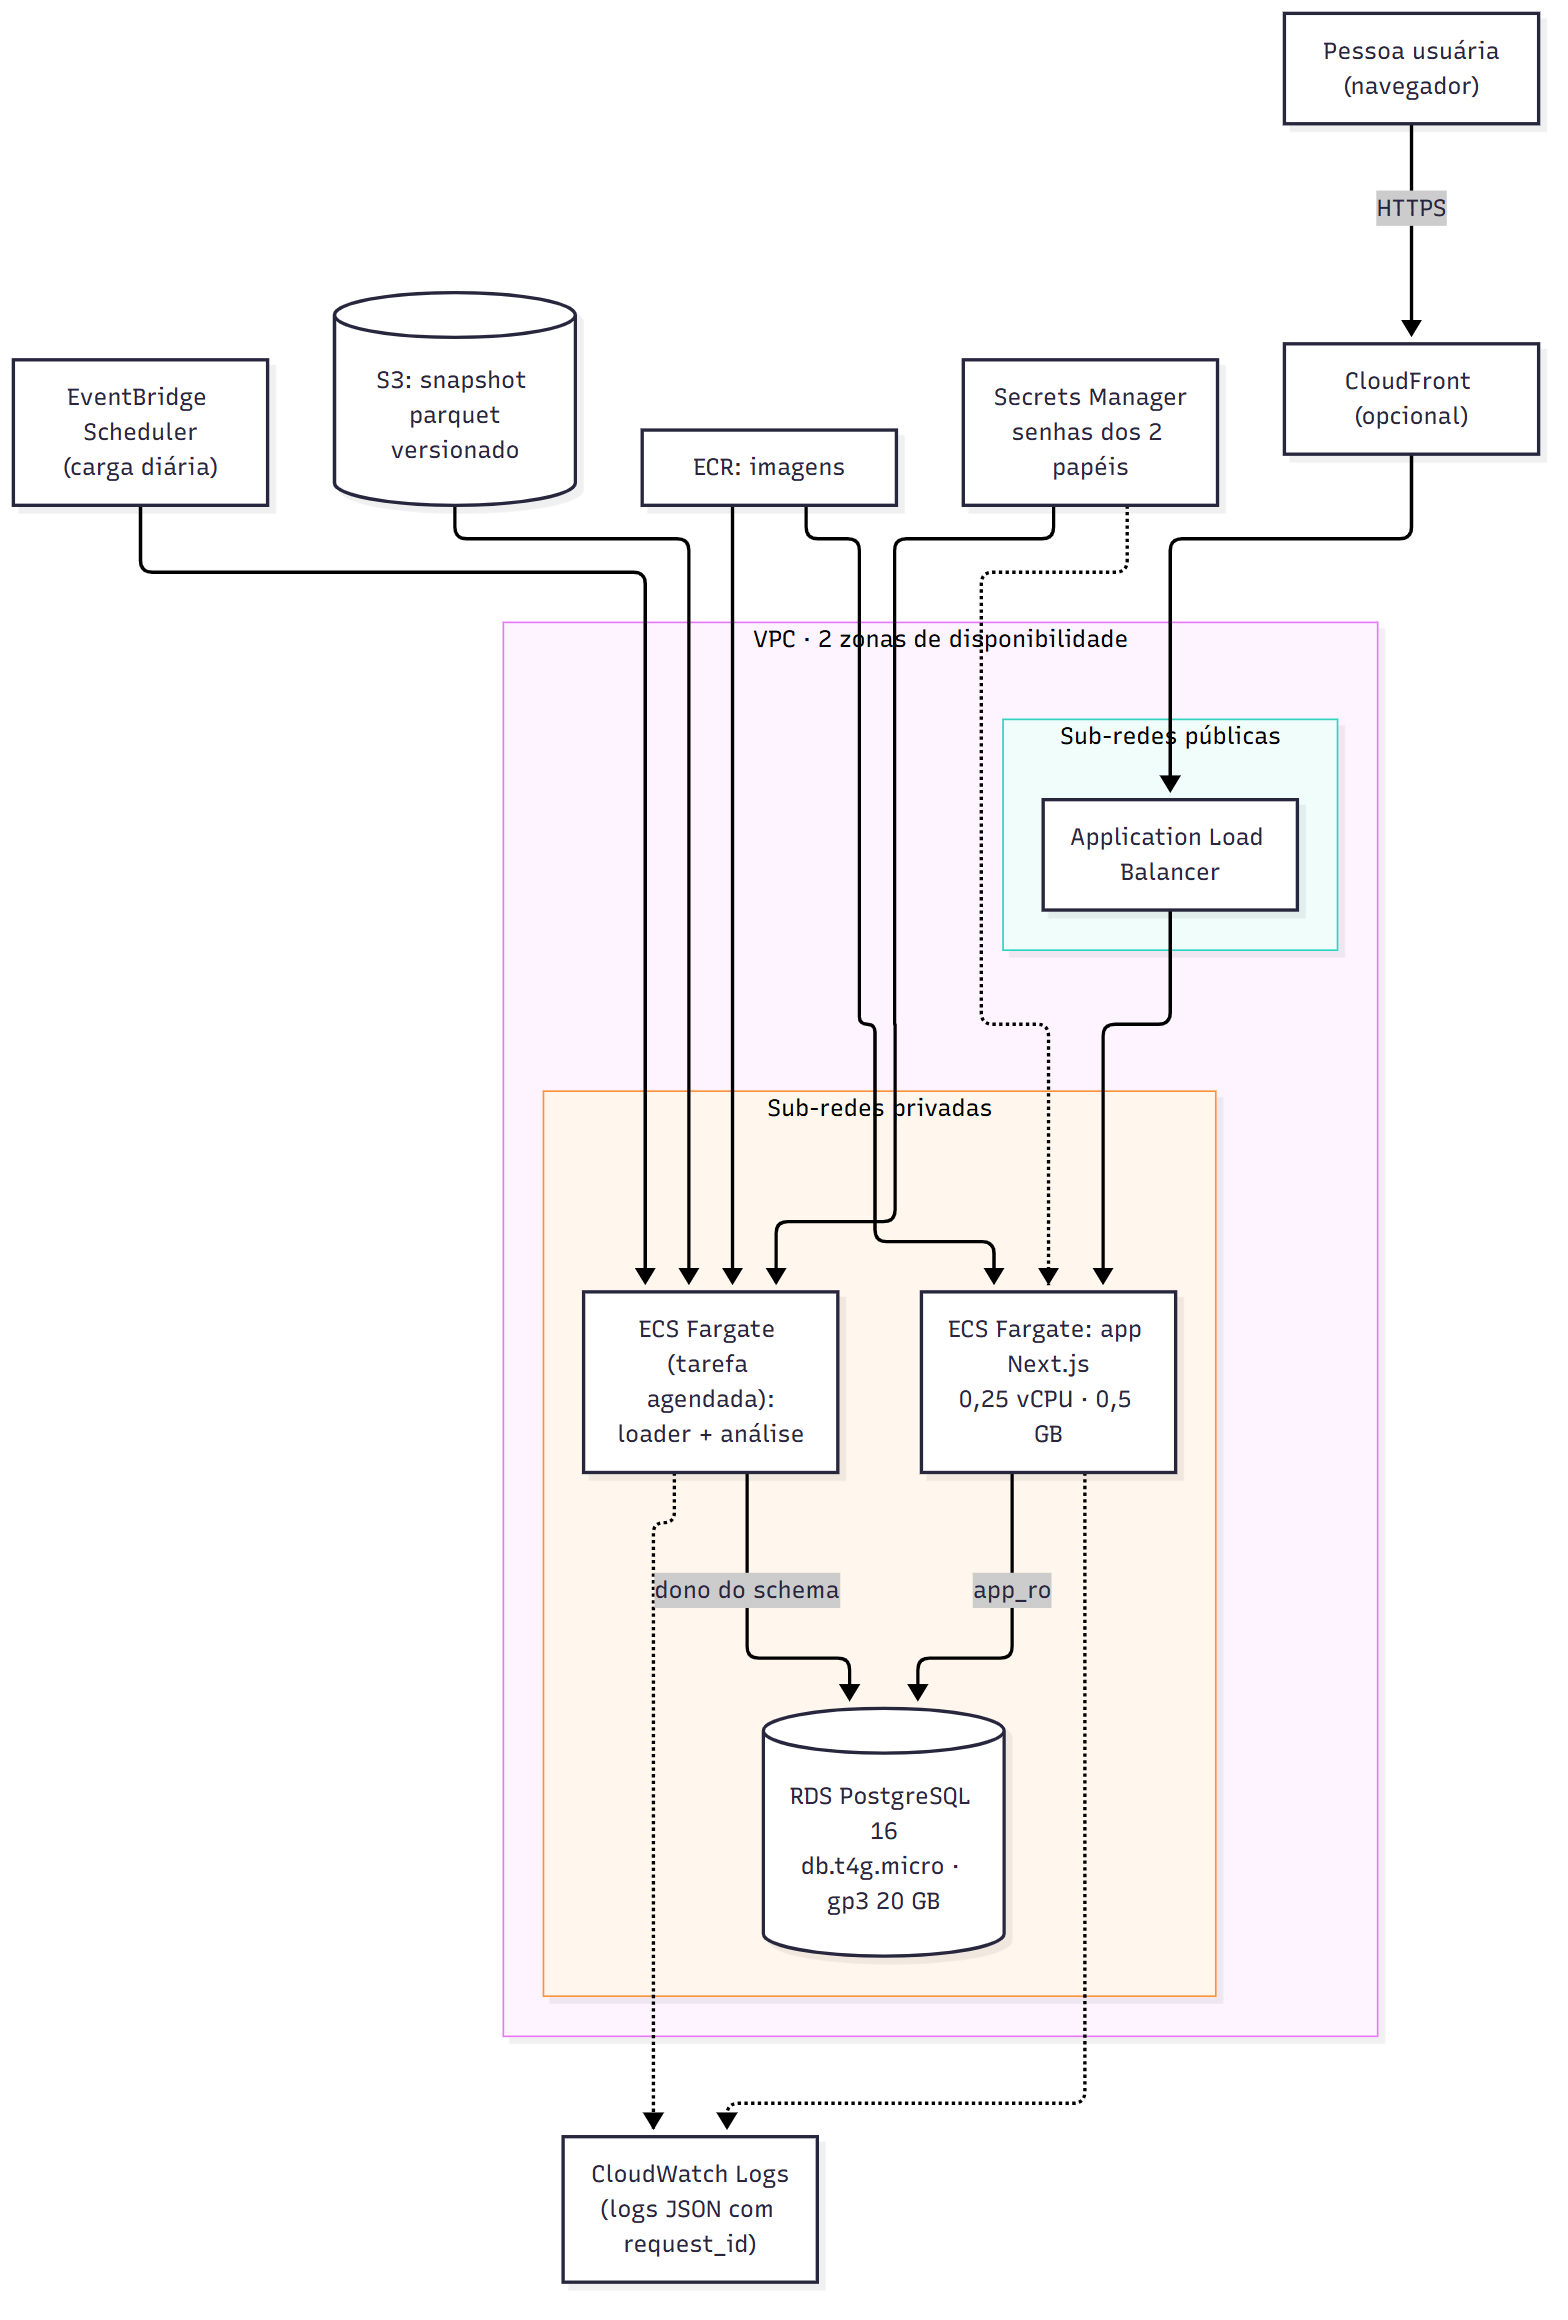
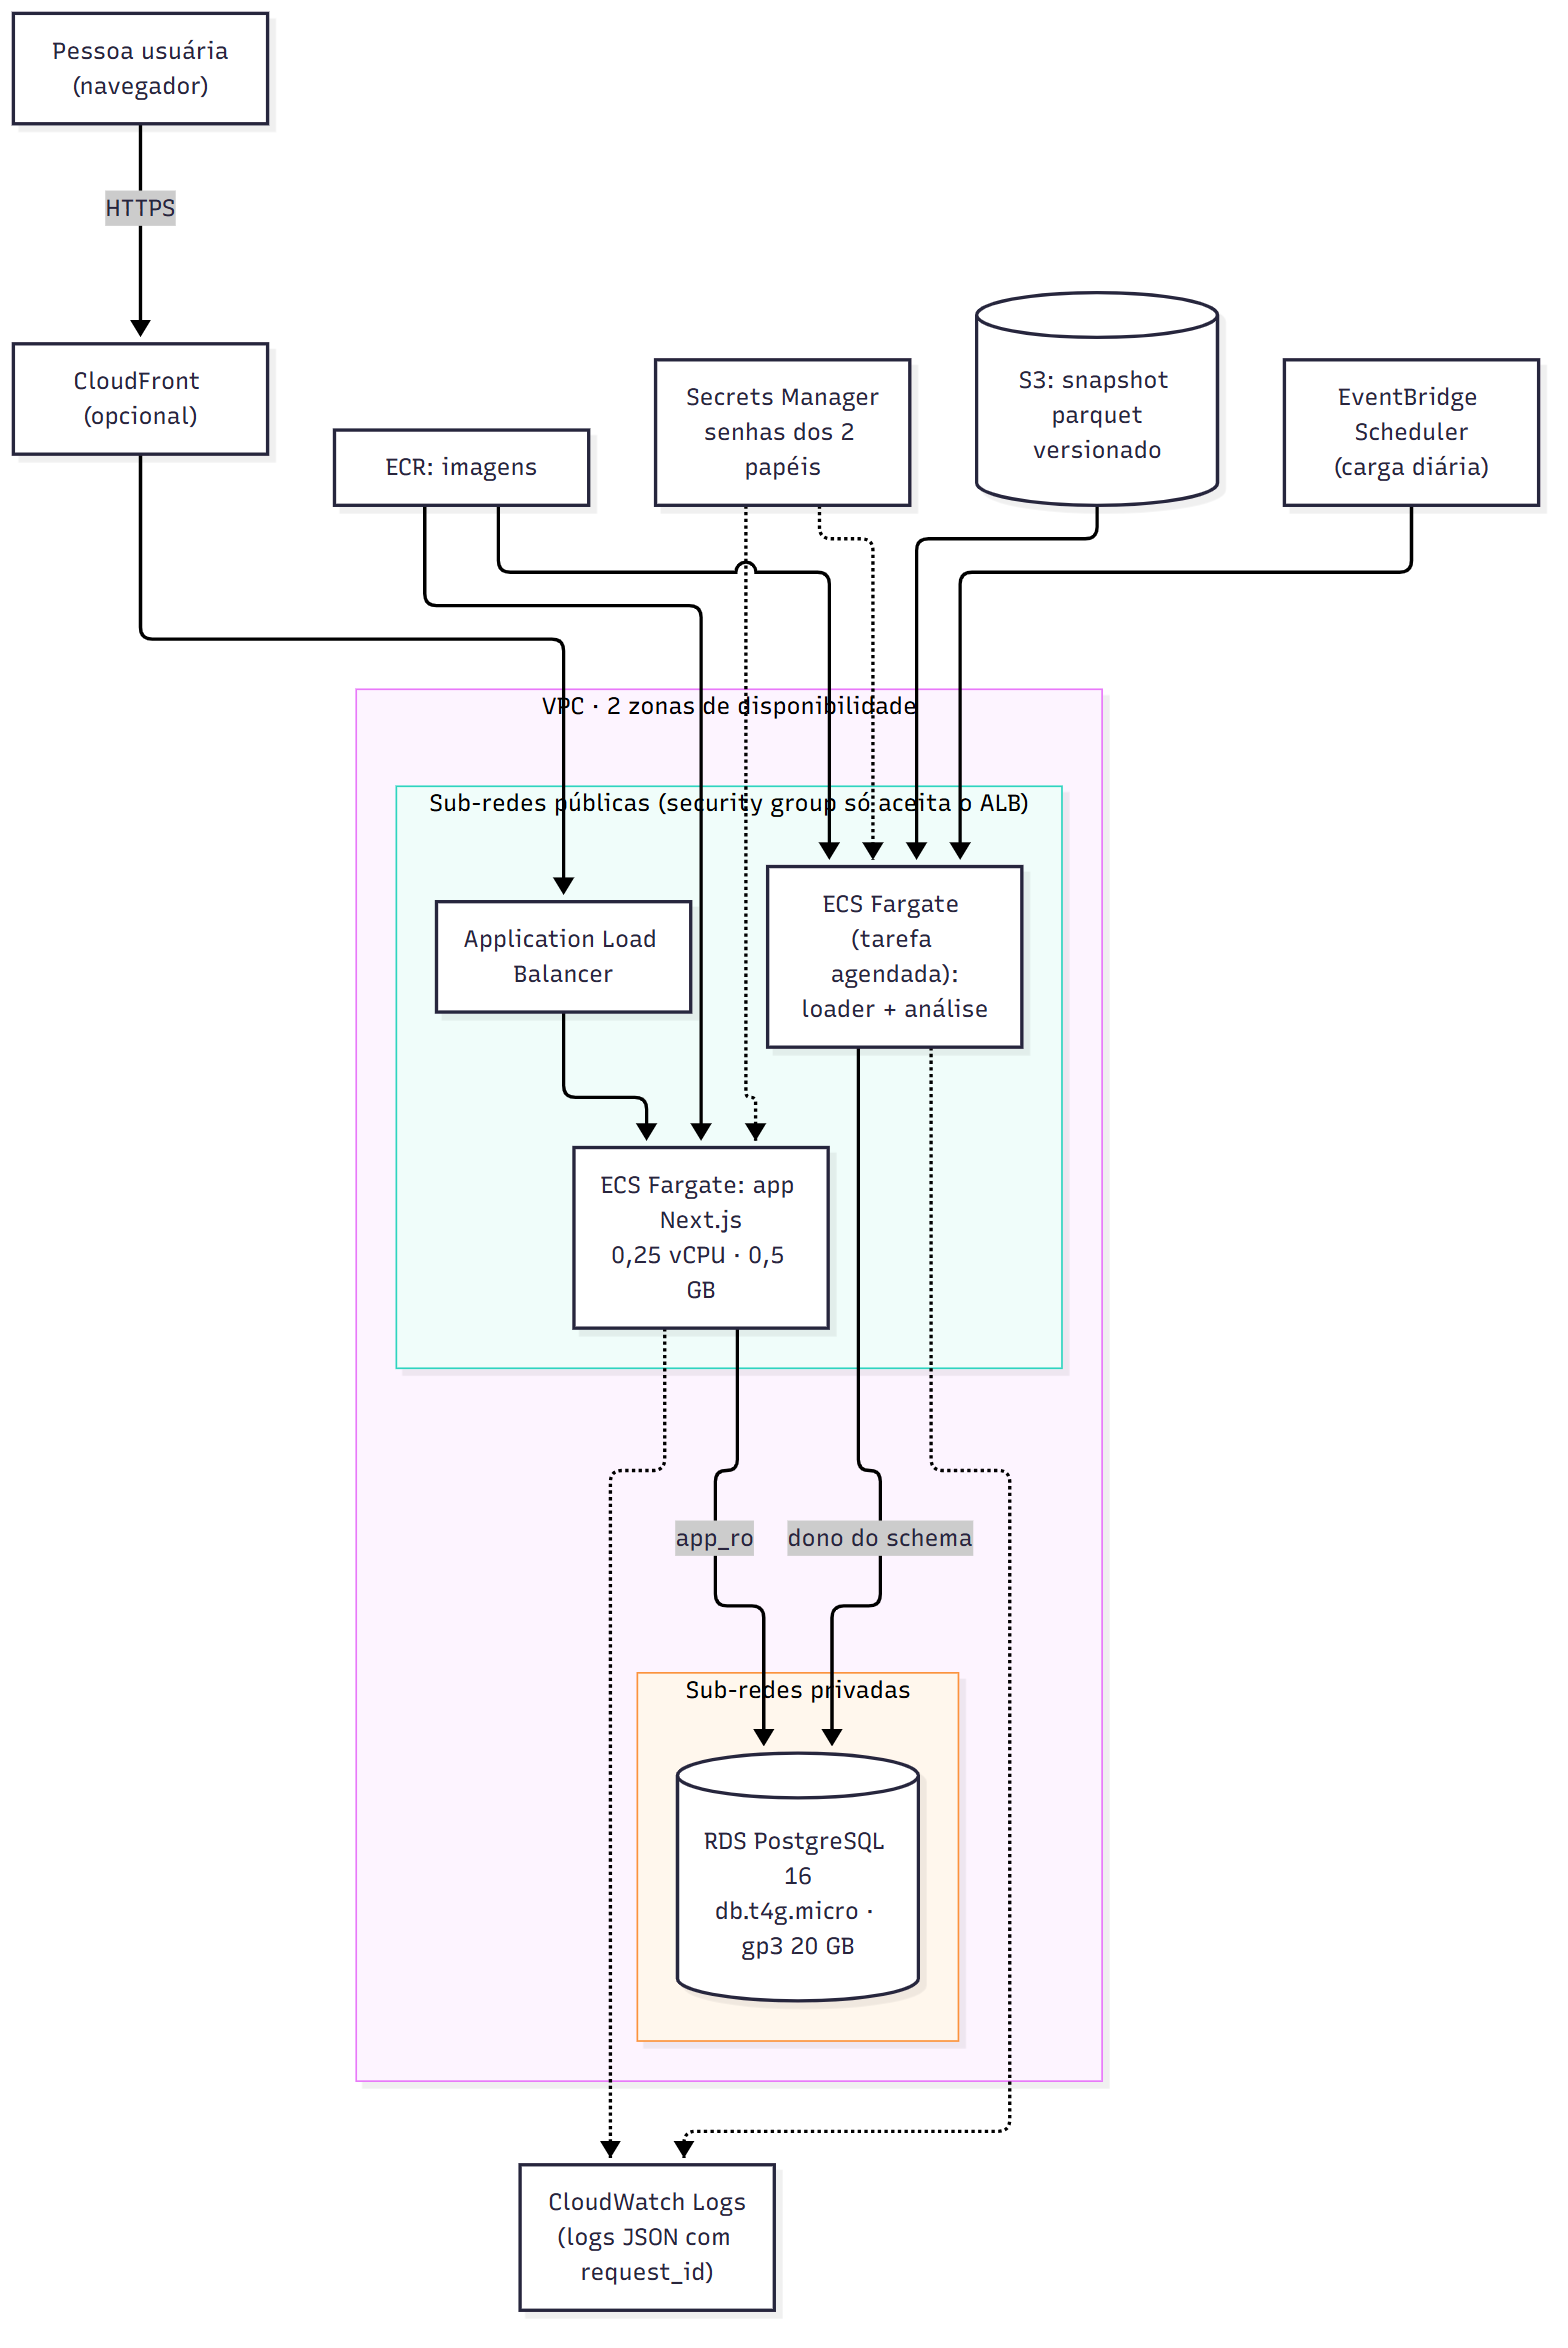
docs(m6): saída para a internet precificada (AmazonVPC); LCU coerente [T-602]

Changed region(s): [[0.2188, 0.0, 0.9688, 0.9931], [0.0, 0.0, 0.1562, 0.2172]]

diff --git a/docs/arquitetura/arquitetura.md b/docs/arquitetura/arquitetura.md
@@ -29,12 +29,12 @@ flowchart TB
   U["Pessoa usuária<br/>(navegador)"] -->|HTTPS| CF["CloudFront (opcional)"]
   CF --> ALB["Application Load Balancer"]
   subgraph VPC["VPC · 2 zonas de disponibilidade"]
-    subgraph PUB["Sub-redes públicas"]
+    subgraph PUB["Sub-redes públicas (security group só aceita o ALB)"]
       ALB
-    end
-    subgraph PRIV["Sub-redes privadas"]
       APP["ECS Fargate: app Next.js<br/>0,25 vCPU · 0,5 GB"]
       LOAD["ECS Fargate (tarefa agendada):<br/>loader + análise"]
+    end
+    subgraph PRIV["Sub-redes privadas"]
       RDS[("RDS PostgreSQL 16<br/>db.t4g.micro · gp3 20 GB")]
     end
   end
@@ -53,11 +53,11 @@ flowchart TB
 
 Imagem: `docs/arquitetura/implantacao-aws.png`.
 
-**Deploy:** a imagem do app e a do loader são construídas a partir do mesmo repositório, publicadas no ECR e atualizadas no ECS. O loader roda como tarefa agendada (migra, carrega, transforma, reconcilia) e termina; o app sobe depois que a última carga está registrada em `ops.lote_carga`. Migrações são versionadas em `sql/migrations/` e só o loader as aplica. O app não tem credencial de escrita.
+**Deploy:** a imagem do app e a do loader são construídas a partir do mesmo repositório, publicadas no ECR e atualizadas no ECS. O loader roda como tarefa agendada (migra, carrega, transforma, reconcilia) e termina; o app sobe depois que a última carga está registrada em `ops.lote_carga`. Migrações são versionadas em `sql/migrations/` e só o loader as aplica. O app não tem credencial de escrita. As tarefas ficam em sub-rede pública (IPv4 público, para falar com ECR, Secrets Manager e CloudWatch sem NAT nem endpoints), com security group que só aceita tráfego do ALB; o banco fica em sub-rede privada.
 
 ## 3. Componentes e custo mensal estimado
 
-**Como ler os preços.** Região `us-east-1` (N. Virginia), preço sob demanda, 730 h/mês, em dólar, **consultados em 12/11/2026** na **Price List API pública da AWS** (a mesma base das páginas oficiais de preço; os arquivos de cada serviço trazem a data de publicação citada na coluna "Fonte"). Os valores foram lidos direto desses arquivos oficiais; nenhum vem de terceiros. A seleção do perfil (0,25 vCPU, 1 LCU etc.) é premissa deste desenho, e **nenhum valor abaixo veio de uma cobrança real**. Onde a fonte oficial não foi consultada, a linha diz "não conferido na fonte oficial".
+**Como ler os preços.** Região `us-east-1` (N. Virginia), preço sob demanda, 730 h/mês, em dólar, **consultados em 12/11/2026** na **Price List API pública da AWS** (a mesma base das páginas oficiais de preço; os arquivos de cada serviço trazem a data de publicação citada na coluna "Fonte"). Os valores foram lidos direto desses arquivos oficiais; nenhum vem de terceiros. A seleção do perfil (0,25 vCPU e 0,25 LCU médio no ALB, entre outras) é premissa deste desenho, e **nenhum valor abaixo veio de uma cobrança real**. Onde a fonte oficial não foi consultada, a linha diz "não conferido na fonte oficial".
 
 | Componente | Para quê | Premissa e preço unitário | Custo/mês (US$) | Fonte (Price List API, consulta 12/11/2026) |
 |---|---|---|---|---|
@@ -70,17 +70,18 @@ Imagem: `docs/arquitetura/implantacao-aws.png`.
 | ECR (2 imagens, ≈ 2 GB) | Imagens | US$ 0,10/GB-mês × 2 | 0,20 | [AmazonECR](https://pricing.us-east-1.amazonaws.com/offers/v1.0/aws/AmazonECR/current/us-east-1/index.json) · publ. 11/11/2026 · página: <https://aws.amazon.com/ecr/pricing/> |
 | Secrets Manager (2 segredos) | Senhas dos papéis | US$ 0,40/segredo-mês × 2 (chamadas de API: US$ 0,05 por 10 mil, desprezível) | 0,80 | [AWSSecretsManager](https://pricing.us-east-1.amazonaws.com/offers/v1.0/aws/AWSSecretsManager/current/us-east-1/index.json) · publ. 11/11/2026 · página: <https://aws.amazon.com/secrets-manager/pricing/> |
 | CloudWatch Logs (≤ 1 GB/mês) | Logs JSON | US$ 0,50/GB ingerido × 1 (classe Standard) | 0,50 | [AmazonCloudWatch](https://pricing.us-east-1.amazonaws.com/offers/v1.0/aws/AmazonCloudWatch/current/us-east-1/index.json) · publ. 04/11/2026 · página: <https://aws.amazon.com/cloudwatch/pricing/> |
-| NAT / saída para a internet | Imagens e pacotes | **Evitar**: endpoints de VPC ou sub-redes públicas com IP restrito. Preço do NAT Gateway: **não conferido na fonte oficial** (o arquivo de preços do EC2 é grande demais para esta máquina; o valor de ≈ US$ 33/mês citado antes era de memória e foi retirado) | 0 (com a escolha acima) | não conferido |
+| Saída para a internet: IPv4 público (tarefas em sub-rede pública, security group restrito) | Baixar imagens do ECR, falar com Secrets Manager e CloudWatch | US$ 0,005/h por IPv4 público em uso × 730 = 3,65: 1 da tarefa do app + 2 do ALB (2 zonas de disponibilidade assumidas) = 10,95; o loader tem IP só nas 5 h/mês em que roda = 0,03 | 10,98 | [AmazonVPC](https://pricing.us-east-1.amazonaws.com/offers/v1.0/aws/AmazonVPC/current/us-east-1/index.json) · `PublicIPv4:InUseAddress` · publ. 05/11/2026 · página: <https://aws.amazon.com/vpc/pricing/> |
 | CloudFront (opcional) | Camada na frente do ALB | Fora do total; a camada gratuita **não foi conferida na fonte oficial** | 0 (não incluído) | não conferido |
-| **Total estimado** | | Soma das linhas acima: 11,68 + 2,30 + 9,01 + 0,12 + 17,89 + 0,02 + 0,20 + 0,80 + 0,50 | **42,52 (≈ 43)** | |
+| **Total estimado** | | Soma das linhas acima: 11,68 + 2,30 + 9,01 + 0,12 + 17,89 + 0,02 + 0,20 + 0,80 + 0,50 + 10,98 | **53,50 (≈ 54)** | |
 
-**Premissas do total:** um país (Brasil), ~11,6 mil conversas, poucas pessoas acessando ao mesmo tempo, sem Multi-AZ, sem CloudFront, sem tráfego de saída relevante (transferência de dados não foi precificada). A API já responde com `Cache-Control` para CDN; o app mede p50 de poucos milissegundos com cache quente (ver `docs/desempenho.md`).
+**Premissas do total:** um país (Brasil), ~11,6 mil conversas, poucas pessoas acessando ao mesmo tempo, sem Multi-AZ, sem CloudFront, sem NAT Gateway, sem tráfego de saída relevante (transferência de dados não foi precificada). A API já responde com `Cache-Control` para CDN; o app mede p50 de poucos milissegundos com cache quente (ver `docs/desempenho.md`).
 
 **O que muda o custo** (mesma fonte AmazonRDS, 12/11/2026):
 - Banco Multi-AZ: a instância passa a US$ 0,032/h = 23,36/mês, ou seja **+11,68** (o armazenamento Multi-AZ tem preço próprio e não foi somado aqui).
 - Banco reservado por 1 ano, padrão, sem pagamento antecipado: US$ 0,0116/h = 8,47/mês contra 11,68, **desconto de 27,5% (−3,21/mês)**. Com pagamento parcial antecipado (US$ 49 + US$ 0,0056/h) o equivalente é ≈ 8,17/mês; com tudo antecipado (US$ 95), ≈ 7,92/mês.
 - Retirar o ALB e servir pelo CloudFront direto ao Fargate economiza a maior linha (≈ 17,89), ao custo de mais configuração.
-- Um NAT Gateway, se necessário, é a maior surpresa possível; seu preço **não foi conferido** aqui.
+- **Por que sub-rede pública e não endpoints de VPC:** com o app e o loader em sub-redes privadas e sem NAT, seriam necessários 4 endpoints de interface (ECR api, ECR dkr, CloudWatch Logs, Secrets Manager), cobrados a US$ 0,01/h por endpoint e por zona: 4 × 2 × 0,01 × 730 = **58,40/mês**, mais os 2 IPv4 do ALB (7,30), ou seja ≈ 65,70 contra 10,98 da escolha adotada (mesma fonte AmazonVPC, `VpcEndpoint-Hours`, US$ 0,01/h; dados processados a US$ 0,01/GB, desprezíveis aqui). O endpoint de gateway do S3 não tem linha de cobrança no arquivo de preços, mas a gratuidade em si não foi conferida na página.
+- **NAT Gateway:** não usado. Seu preço **não está** no arquivo AmazonVPC da Price List API, então segue **não conferido na fonte oficial**.
 
 ## 4. Outros países
 

diff --git a/docs/entrega.md b/docs/entrega.md
@@ -100,7 +100,7 @@ Três telas, cada uma com uma pergunta, em português simples; cada número tem 
 
 - **Fluxo:** arquivo bruto → carga (papel `loader_rw`) → `stg` (restrito) → `mart` e `resultado` → API (papel `app_ro`, só leitura) → telas. Diagrama e modelo da base em `docs/arquitetura/arquitetura.md`.
 - **Pré-cálculo e cache:** os indicadores são pré-agregados na carga; a API guarda em cache e invalida quando muda o lote (ADR-07). Tempos medidos em `docs/desempenho.md`.
-- **AWS (desenho, não implantado):** RDS PostgreSQL, containers para app e carga, balanceador, S3 para o bruto, Secrets Manager, CloudWatch e **Bedrock** para o LLM (ADR-08, ADR-09). **Custo mensal estimado: cerca de US$ 43 (US$ 42,52; preços da Price List API oficial da AWS, us-east-1, sob demanda, consultados em 12/11/2026; `docs/arquitetura/arquitetura.md`)**, mais o LLM, medido: **US$ 0,24 para classificar 2.657 conversas (≈US$ 0,08 por 1.000; a base Brasil inteira ≈US$ 0,94; o WildChat inteiro ≈US$ 68)**, `docs/custo_llm.md`.
+- **AWS (desenho, não implantado):** RDS PostgreSQL, containers para app e carga, balanceador, S3 para o bruto, Secrets Manager, CloudWatch e **Bedrock** para o LLM (ADR-08, ADR-09). **Custo mensal estimado: cerca de US$ 54 (US$ 53,50; preços da Price List API oficial da AWS, us-east-1, sob demanda, consultados em 12/11/2026; `docs/arquitetura/arquitetura.md`)**, mais o LLM, medido: **US$ 0,24 para classificar 2.657 conversas (≈US$ 0,08 por 1.000; a base Brasil inteira ≈US$ 0,94; o WildChat inteiro ≈US$ 68)**, `docs/custo_llm.md`.
 - **Outros países:** o país é parâmetro (uma carga por país no mesmo banco), com idioma da interface, fuso por país e comparação padronizada pelo mix; amostras pequenas aparecem como "amostra pequena" (seção 4 de `arquitetura.md`).
 
 ## 8. Sustentação: como eu saberia que um número está errado  (C-32, C-33, C-34)
